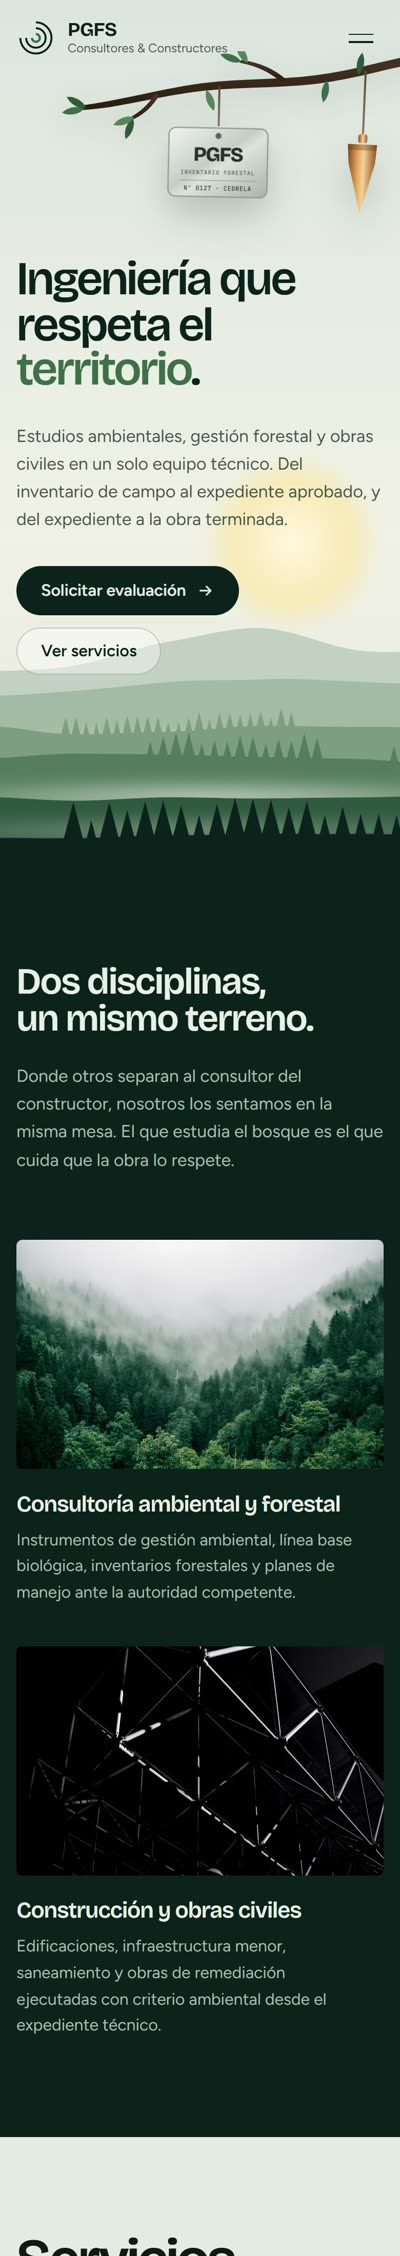
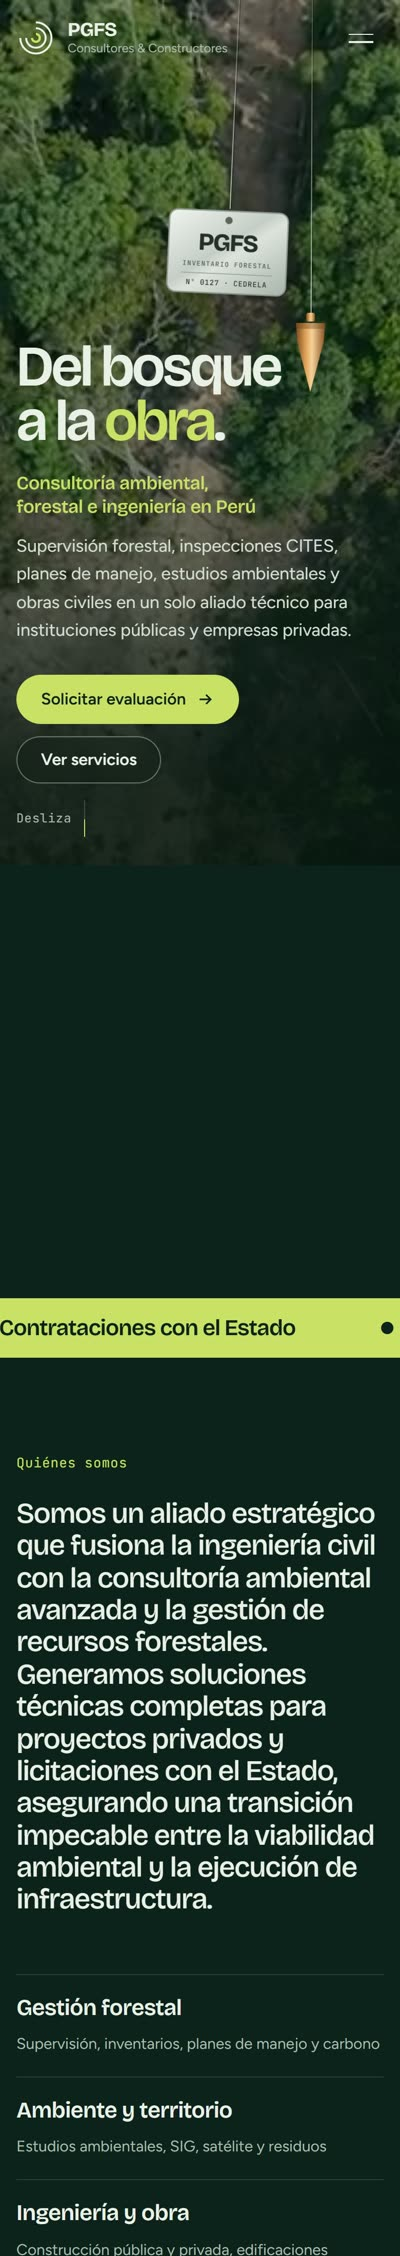
Actualizar PGFS a su dominio propio y agregar Altura Arquitectos a los trabajos

diff --git a/index.html b/index.html
@@ -320,15 +320,21 @@ html.loading{overflow:hidden}
   </article>
 
   <article class="work">
-   <a class="media rv" href="https://notseijas.github.io/pgfs-web/" target="_blank" rel="noopener" aria-label="Ver la web de PGFS (se abre en otra pestaña)"><span class="visit">Ver la web<svg viewBox="0 0 24 24" fill="none" stroke="currentColor" stroke-width="2" stroke-linecap="round" stroke-linejoin="round"><path d="M7 17L17 7M9 7h8v8"/></svg></span><div class="screen reveal-img"><img src="img/w-pgfs.jpg" alt="Web de PGFS Consultores y Constructores" loading="lazy"></div><div class="phone reveal-img"><img src="img/m-pgfs.jpg" alt="Web de PGFS en el celular" loading="lazy"></div></a>
-   <div class="txt"><h3 class="rv">PGFS Consultores &amp; Constructores</h3><p class="kind rv d1">Ingeniería ambiental y forestal</p>
-    <ul class="rv d2"><li>Consultoría ambiental y forestal</li><li>Servicios y obras civiles</li><li>Solicitud de evaluación en línea</li></ul><a class="btn btn-ghost go rv d2" href="https://notseijas.github.io/pgfs-web/" target="_blank" rel="noopener">Ver la web<svg viewBox="0 0 24 24" fill="none" stroke="currentColor" stroke-width="2" stroke-linecap="round" stroke-linejoin="round"><path d="M7 17L17 7M9 7h8v8"/></svg></a></div>
+   <a class="media rv" href="https://pgfsconsultores.com/" target="_blank" rel="noopener" aria-label="Ver la web de PGFS (se abre en otra pestaña)"><span class="visit">Ver la web<svg viewBox="0 0 24 24" fill="none" stroke="currentColor" stroke-width="2" stroke-linecap="round" stroke-linejoin="round"><path d="M7 17L17 7M9 7h8v8"/></svg></span><div class="screen reveal-img"><img src="img/w-pgfs.jpg?v=2" alt="Web de PGFS Consultores y Constructores" loading="lazy"></div><div class="phone reveal-img"><img src="img/m-pgfs.jpg?v=2" alt="Web de PGFS en el celular" loading="lazy"></div></a>
+   <div class="txt"><h3 class="rv">PGFS Consultores &amp; Constructores</h3><p class="kind rv d1">Consultoría ambiental, forestal e ingeniería</p>
+    <ul class="rv d2"><li>Portada con video de dron</li><li>Servicios, equipo y trabajo en campo</li><li>Dominio propio y medición de visitas</li></ul><a class="btn btn-ghost go rv d2" href="https://pgfsconsultores.com/" target="_blank" rel="noopener">Ver la web<svg viewBox="0 0 24 24" fill="none" stroke="currentColor" stroke-width="2" stroke-linecap="round" stroke-linejoin="round"><path d="M7 17L17 7M9 7h8v8"/></svg></a></div>
   </article>
 
   <article class="work flip">
    <a class="media rv" href="https://paraiso-web-gamma.vercel.app/" target="_blank" rel="noopener" aria-label="Ver la web de Paraíso de las Alas (se abre en otra pestaña)"><span class="visit">Ver la web<svg viewBox="0 0 24 24" fill="none" stroke="currentColor" stroke-width="2" stroke-linecap="round" stroke-linejoin="round"><path d="M7 17L17 7M9 7h8v8"/></svg></span><div class="screen reveal-img"><img src="img/w-paraiso.jpg" alt="Web de Paraíso de las Alas" loading="lazy"></div><div class="phone reveal-img"><img src="img/m-paraiso.jpg" alt="Web de Paraíso de las Alas en el celular" loading="lazy"></div></a>
    <div class="txt"><h3 class="rv">Paraíso de las Alas</h3><p class="kind rv d1">Alitas y comida rápida</p>
     <ul class="rv d2"><li>Carta completa con 23 sabores</li><li>Arma tu canasta y pide por WhatsApp</li><li>Sedes y horario de atención</li></ul><a class="btn btn-ghost go rv d2" href="https://paraiso-web-gamma.vercel.app/" target="_blank" rel="noopener">Ver la web<svg viewBox="0 0 24 24" fill="none" stroke="currentColor" stroke-width="2" stroke-linecap="round" stroke-linejoin="round"><path d="M7 17L17 7M9 7h8v8"/></svg></a></div>
+  </article>
+
+  <article class="work">
+   <a class="media rv" href="https://altura-web-umber.vercel.app/" target="_blank" rel="noopener" aria-label="Ver la web de Altura Arquitectos (se abre en otra pestaña)"><span class="visit">Ver la web<svg viewBox="0 0 24 24" fill="none" stroke="currentColor" stroke-width="2" stroke-linecap="round" stroke-linejoin="round"><path d="M7 17L17 7M9 7h8v8"/></svg></span><div class="screen reveal-img"><img src="img/w-altura.jpg" alt="Web de Altura, estudio de arquitectura" loading="lazy"></div><div class="phone reveal-img"><img src="img/m-altura.jpg" alt="Web de Altura en el celular" loading="lazy"></div></a>
+   <div class="txt"><h3 class="rv">Altura Arquitectos</h3><p class="kind rv d1">Estudio de arquitectura · diseño de muestra</p>
+    <ul class="rv d2"><li>Portada de impacto con cifras del estudio</li><li>Proyectos, servicios y proceso</li><li>Agenda de visitas</li></ul><a class="btn btn-ghost go rv d2" href="https://altura-web-umber.vercel.app/" target="_blank" rel="noopener">Ver la web<svg viewBox="0 0 24 24" fill="none" stroke="currentColor" stroke-width="2" stroke-linecap="round" stroke-linejoin="round"><path d="M7 17L17 7M9 7h8v8"/></svg></a></div>
   </article>
  </div>
 </section>
